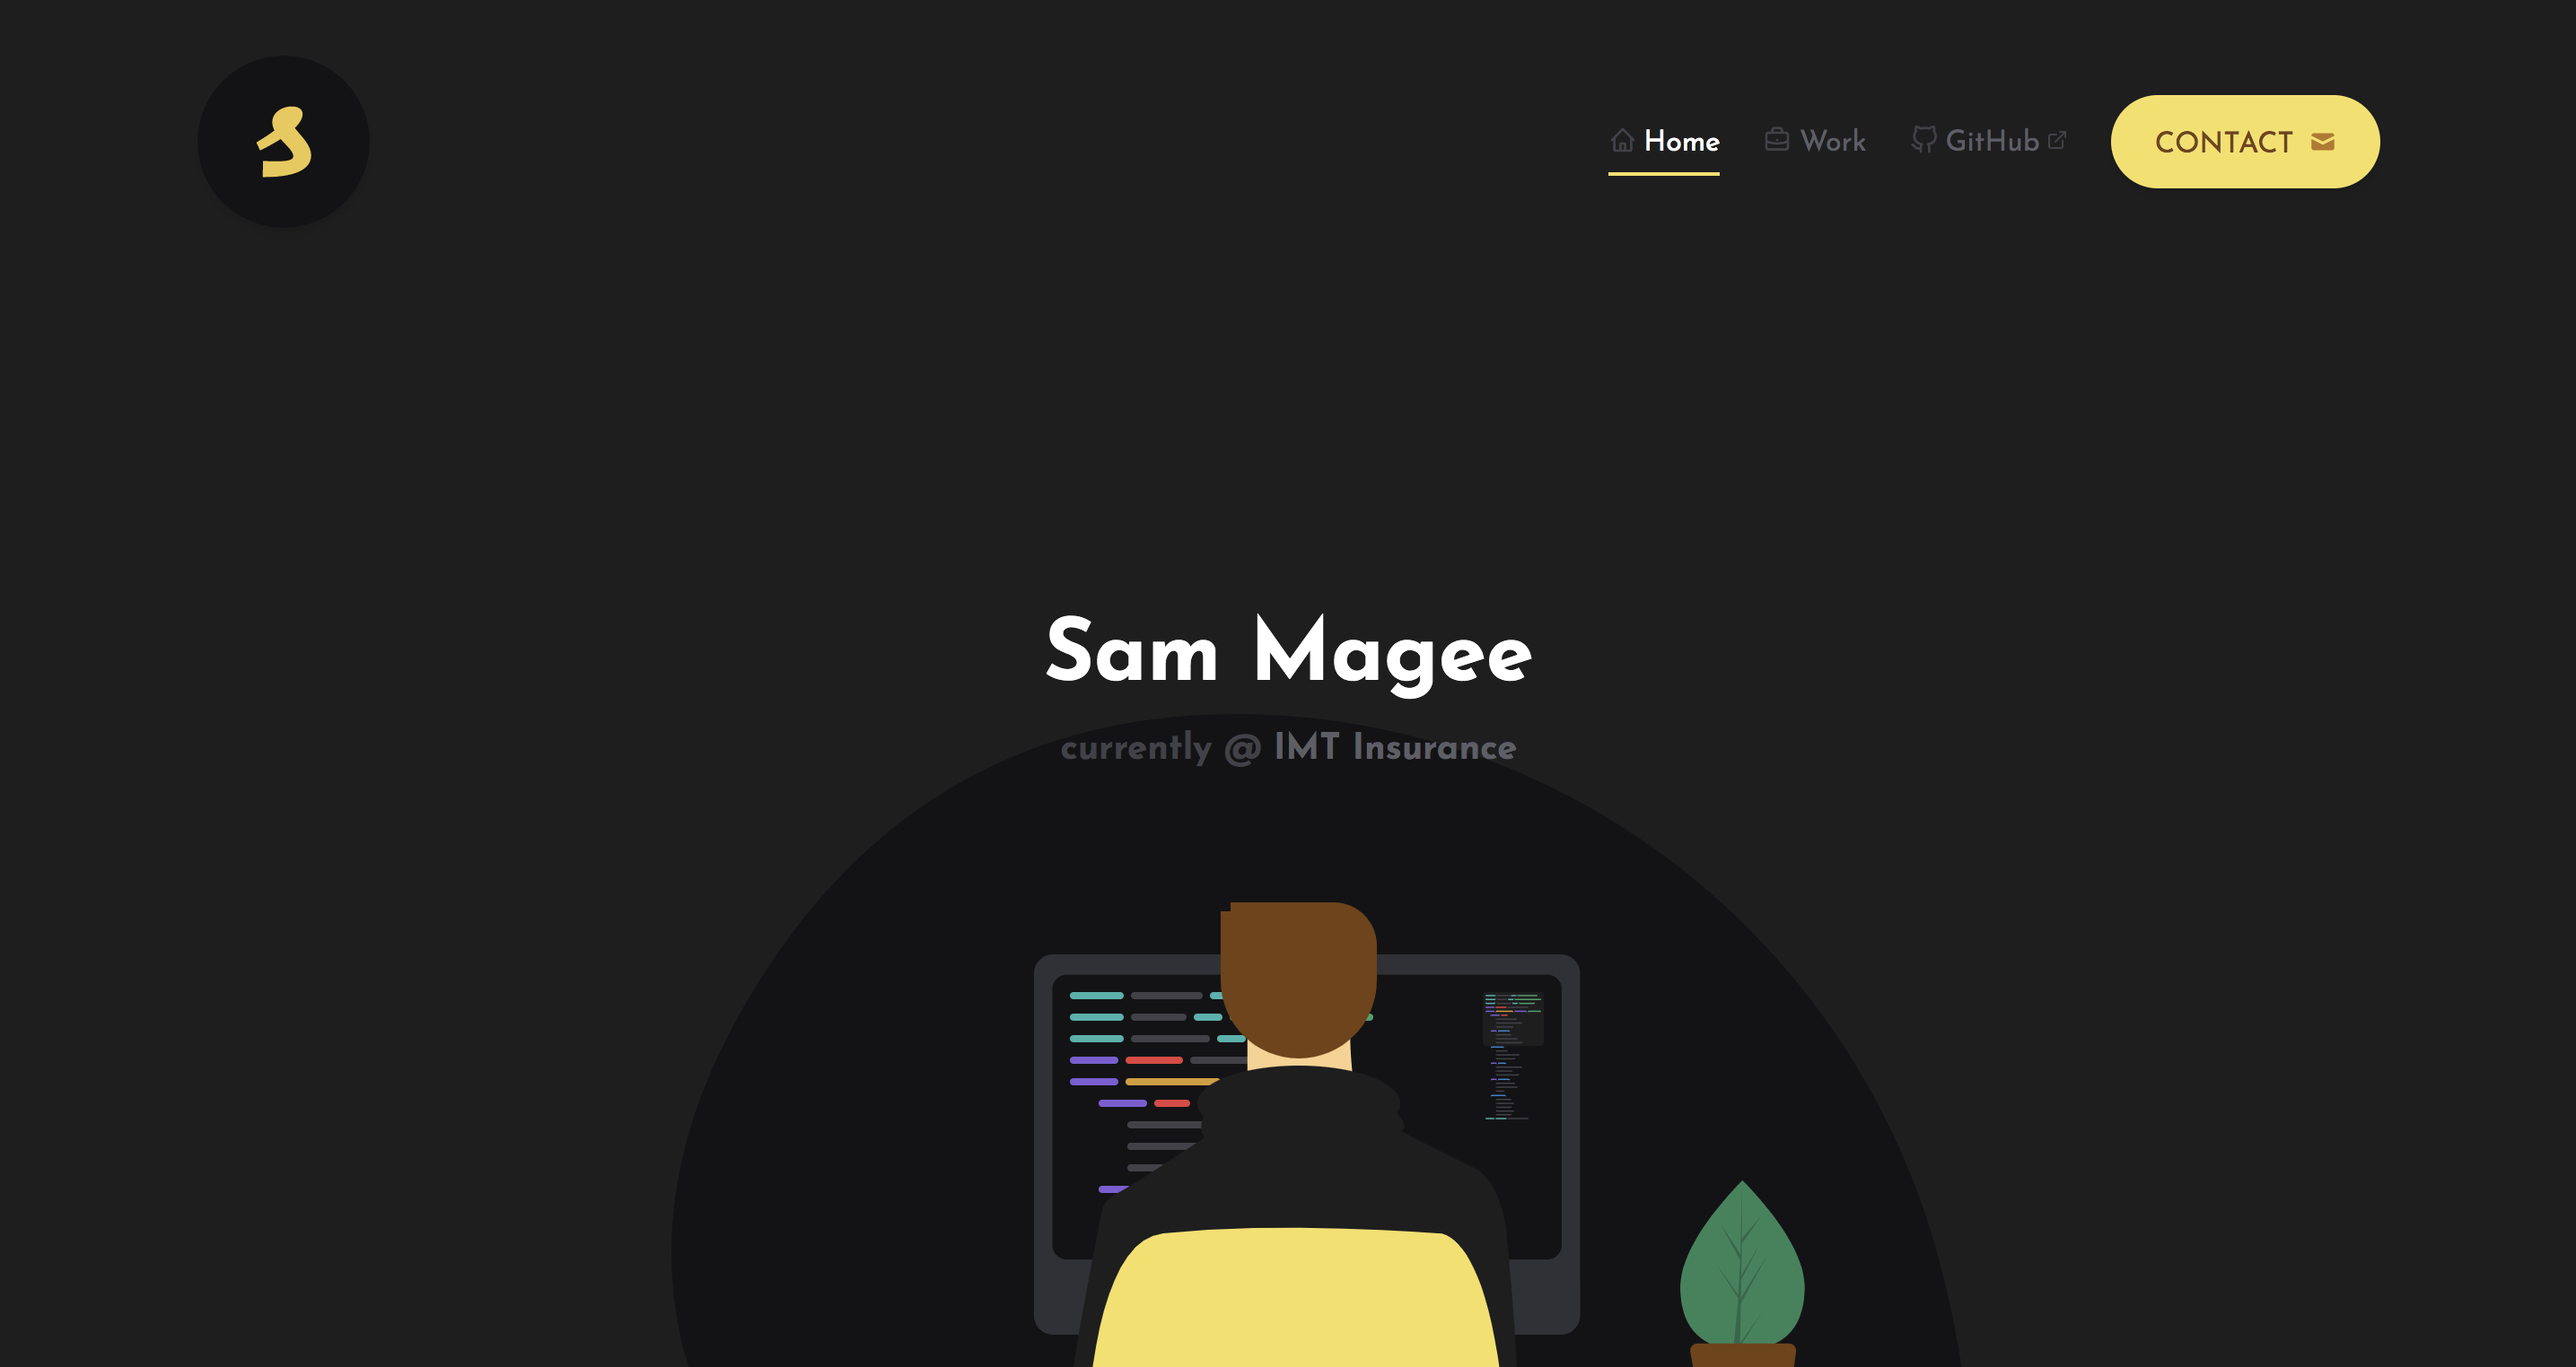
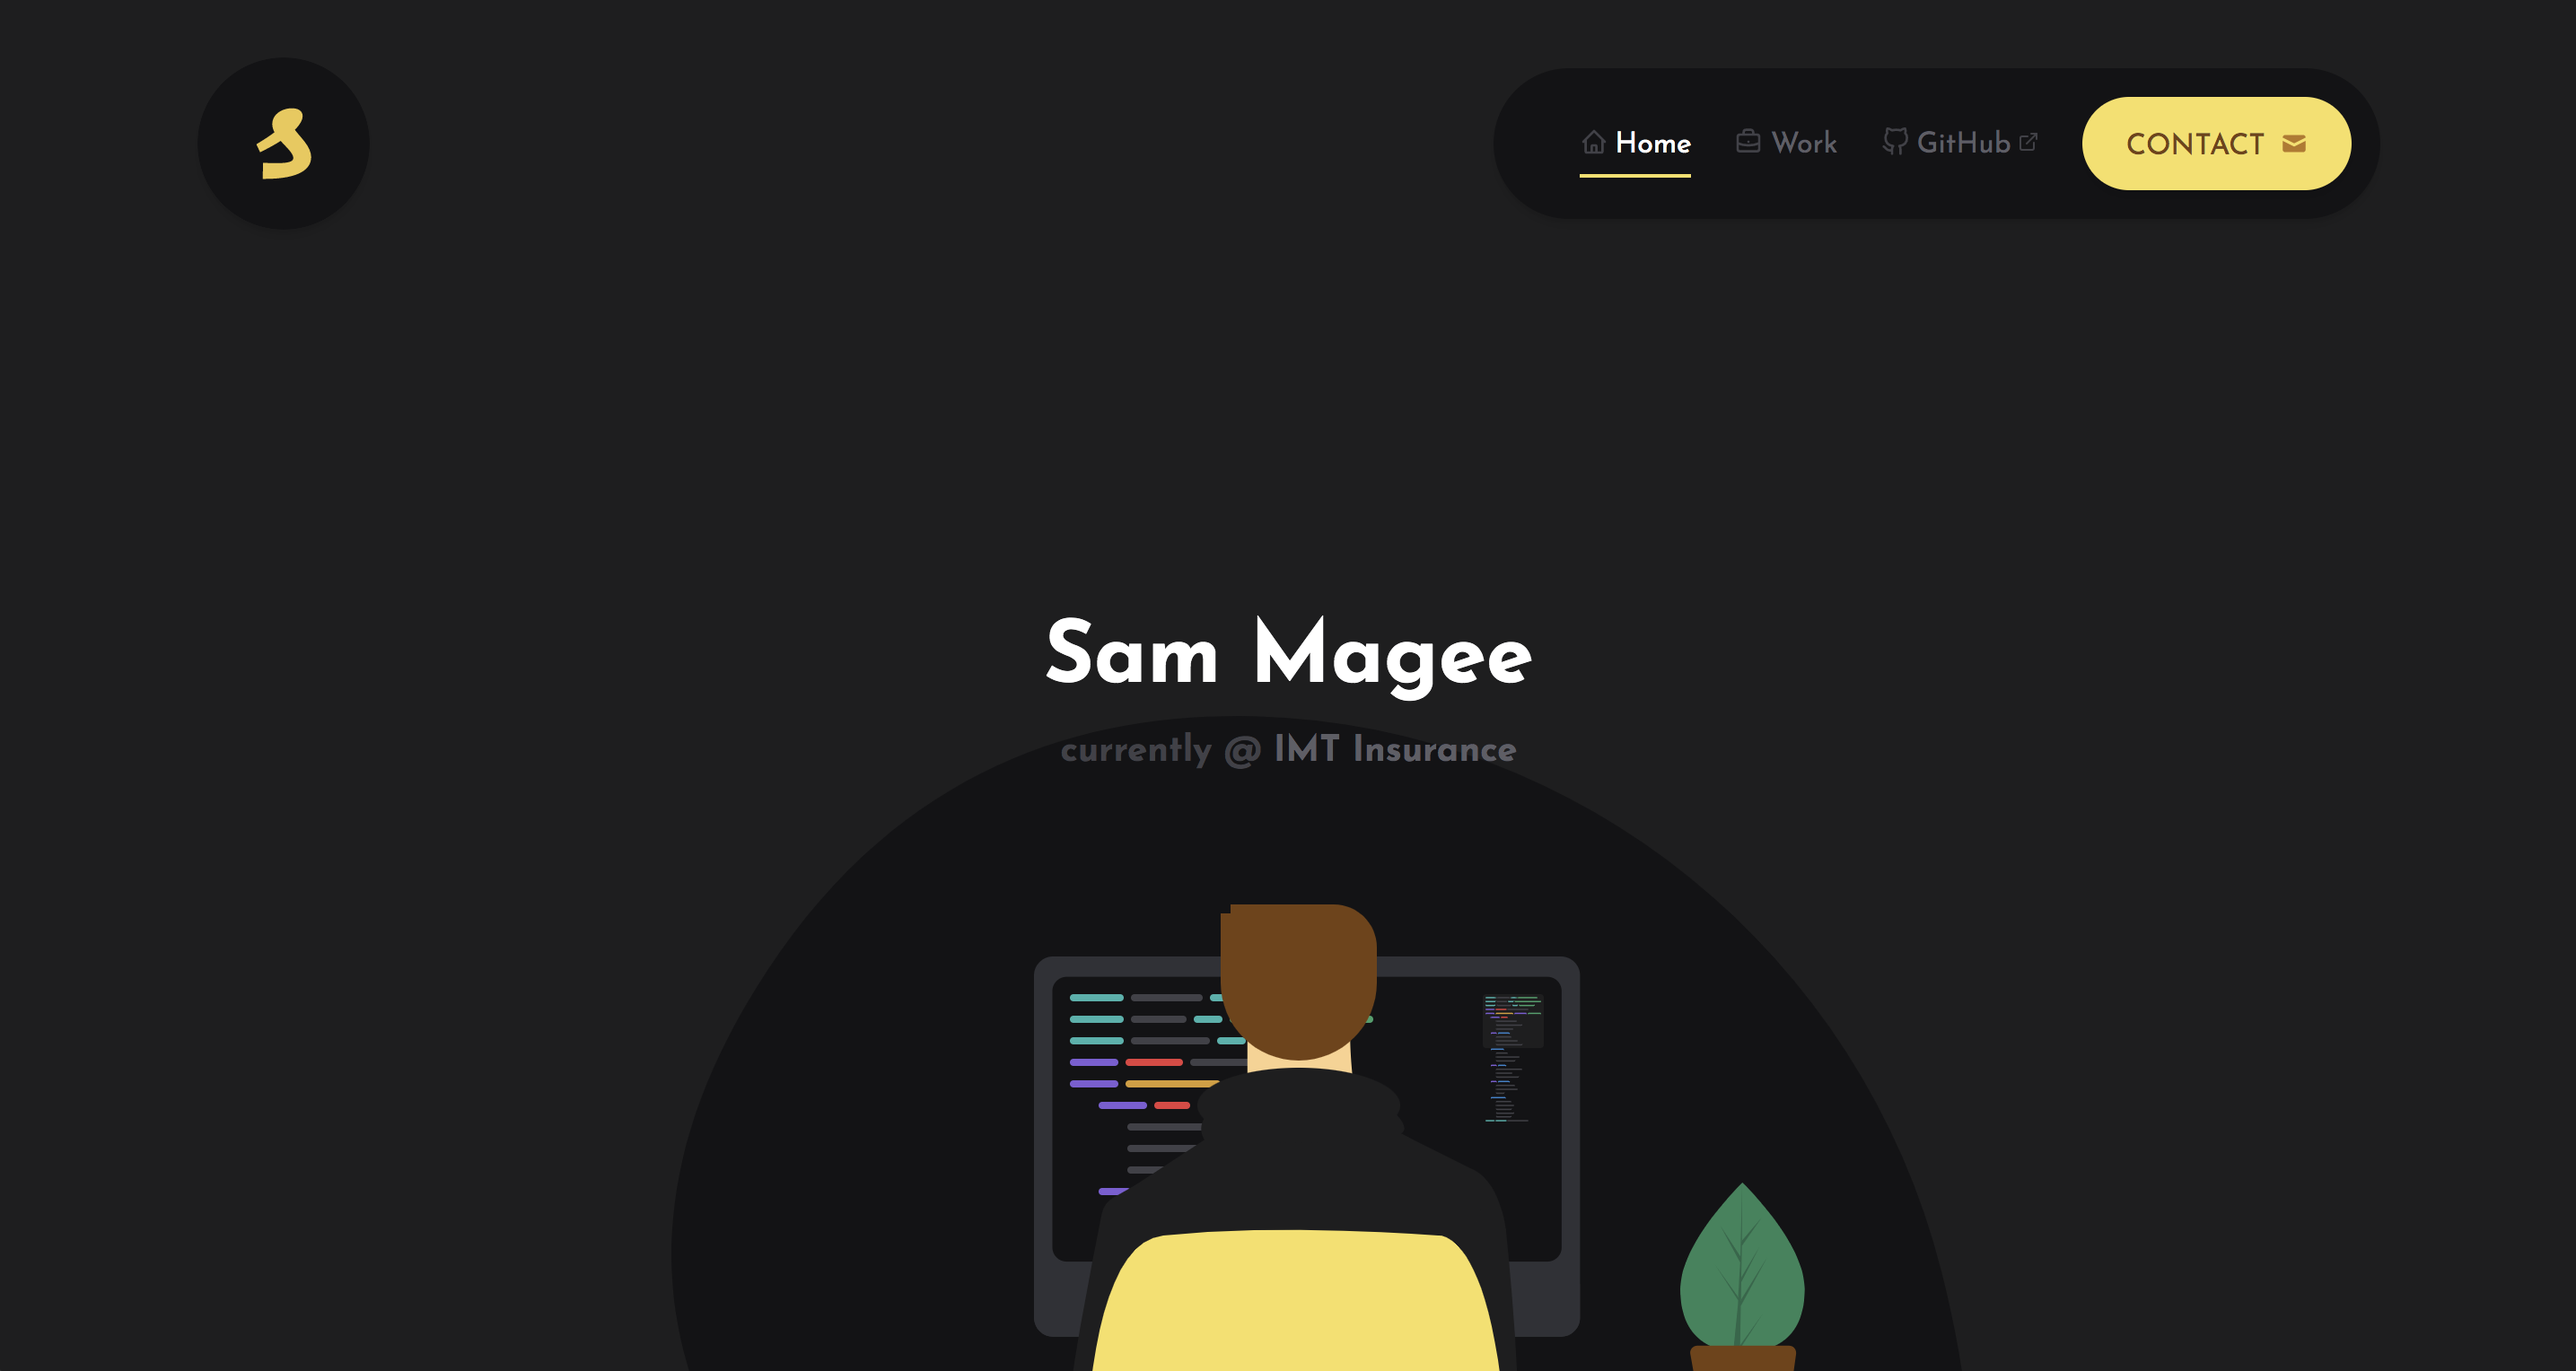
updates nav and portfolio screenshot

Changed region(s): [[0.6202, 0.0617, 0.9303, 0.1542], [0.5582, 0.7402, 0.5892, 0.8018], [0.4341, 0.771, 0.4652, 0.8327]]

diff --git a/components/nav.tsx b/components/nav.tsx
@@ -4,7 +4,7 @@ import { Menu, Transition } from '@headlessui/react'
 
 export default function Nav() {
     return (
-      <header className="container fixed top-0 left-0 right-0 z-10 flex items-center justify-between p-8 mx-auto bg-gray-800">
+      <header className="container fixed top-0 left-0 right-0 z-10 flex items-center justify-between p-8 mx-auto">
         <div className="flex items-center flex-1">
           <Link href="/">
             <a className="flex w-24 h-24 text-yellow-500 rounded-full rise" aria-label="Home">
@@ -16,7 +16,7 @@ export default function Nav() {
           </Link>
         </div>
 
-        <div className="items-center justify-end flex-1 hidden sm:flex">
+        <div className="items-center justify-end hidden py-4 pl-12 pr-4 bg-gray-900 rounded-full shadow-md sm:flex">
           <div className="flex items-center space-x-6 navigation">
             <NavLink href="/">
               {({ active }) => (
@@ -70,7 +70,7 @@ export default function Nav() {
           <Menu>
             {({ open }) => (
               <>
-                <Menu.Button className={`flex items-center justify-center w-6 h-10 transition duration-200 ease-in-out border-none rounded select-none focus:outline-none group ${open ? 'z-50' : ''}`}>
+                <Menu.Button className={`flex items-center justify-center rounded-full w-16 h-16 -mr-5 transition duration-200 ease-in-out border-none shadowselect-none focus:outline-none group ${open ? 'z-50' : 'bg-gray-900 rise'}`}>
                   <div className="flex flex-col items-center justify-center w-full h-full pointer-events-none">
                     <span className={`h-0.5 w-6 block bg-gray-400 group-hover:bg-white rounded-full transition-all transform duration-200 ease-in-out ${open ? 'translate-y-px rotate-45' : 'rotate-0 -translate-y-1'}`}></span>
                     <span className={`h-0.5 w-6 block bg-gray-400 group-hover:bg-white rounded-full transition-all transform duration-200 ease-in-out ${open ? '-translate-y-px -rotate-45' : 'rotate-0 translate-y-1'}`}></span>
@@ -86,7 +86,7 @@ export default function Nav() {
                   leaveFrom="transform opacity-100 scale-100"
                   leaveTo="transform opacity-0 scale-95"
                 >
-                  <div className="absolute right-0 w-56 -mr-5 origin-top-right rounded-md shadow-xl -mt-14">
+                  <div className="absolute right-0 w-56 -mt-16 -mr-5 origin-top-right rounded-md shadow-xl">
                     <Menu.Items
                       static
                       className="overflow-hidden bg-gray-900 rounded-md outline-none"
